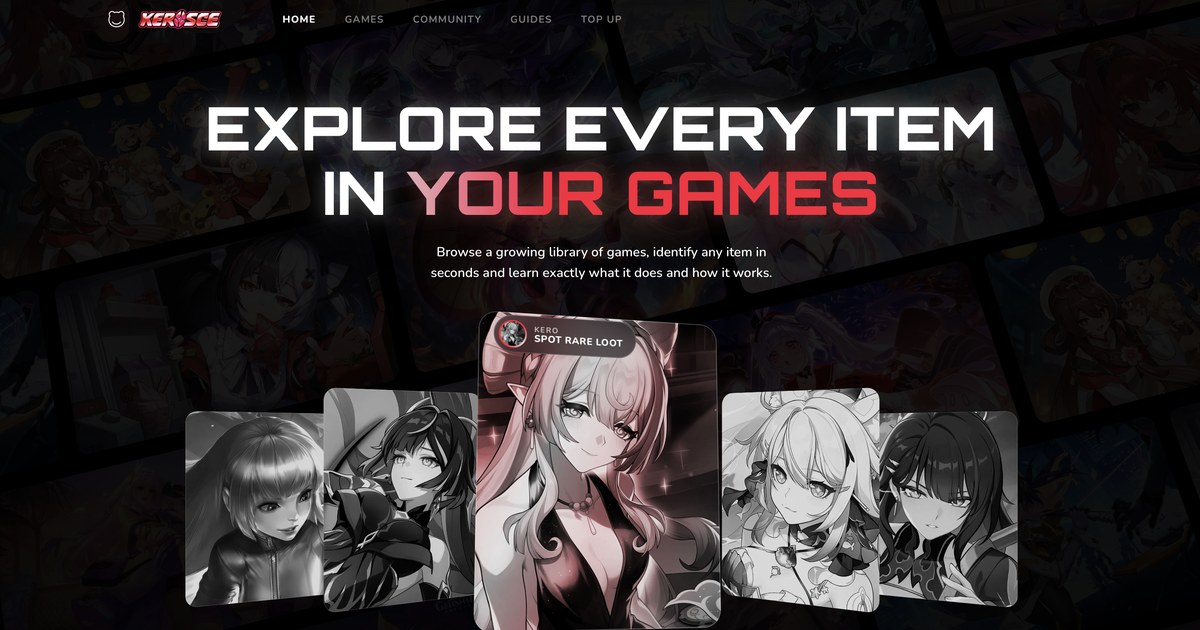
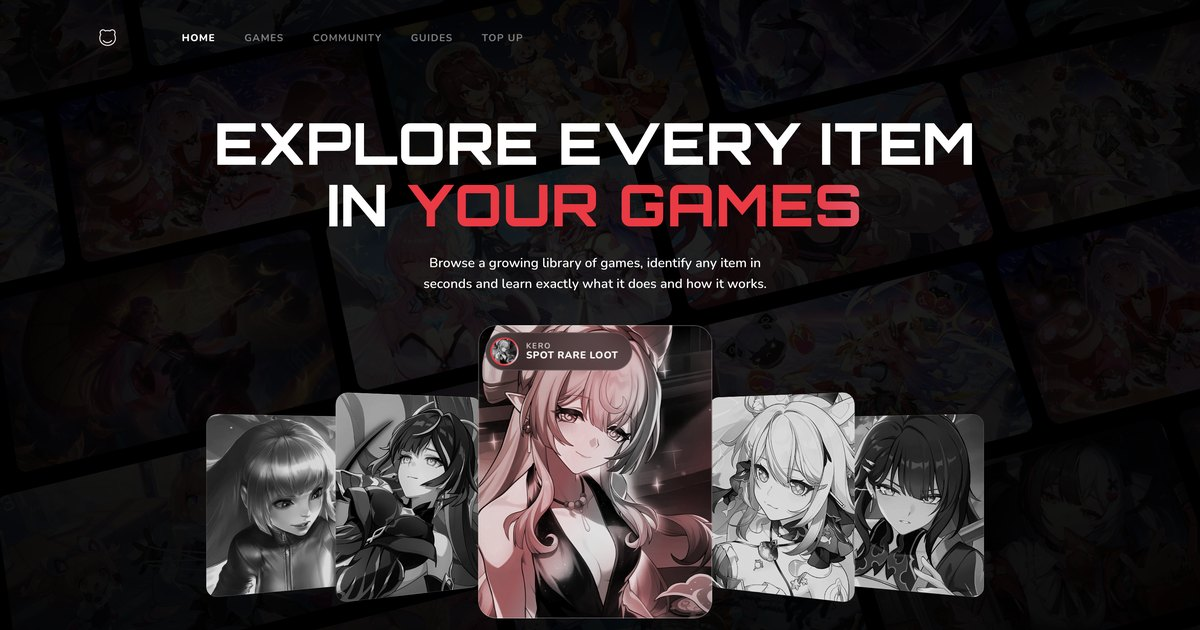
Link preview uses the new homepage screenshot

diff --git a/nuxt.config.ts b/nuxt.config.ts
@@ -47,14 +47,14 @@ export default defineNuxtConfig({
         },
         // LinkedIn and other link previews need an absolute image URL; bump ?v= when the image
         // changes so their caches fetch the new one.
-        { property: 'og:image', content: 'https://kerospace.vercel.app/og-image.jpg?v=20261027' },
-        { property: 'og:image:secure_url', content: 'https://kerospace.vercel.app/og-image.jpg?v=20261027' },
+        { property: 'og:image', content: 'https://kerospace.vercel.app/og-image.jpg?v=20261105' },
+        { property: 'og:image:secure_url', content: 'https://kerospace.vercel.app/og-image.jpg?v=20261105' },
         { property: 'og:image:type', content: 'image/jpeg' },
         { property: 'og:image:width', content: '1200' },
         { property: 'og:image:height', content: '630' },
         { property: 'og:image:alt', content: 'KeroSpace — Explore every item in your games' },
         { name: 'twitter:card', content: 'summary_large_image' },
-        { name: 'twitter:image', content: 'https://kerospace.vercel.app/og-image.jpg?v=20261027' },
+        { name: 'twitter:image', content: 'https://kerospace.vercel.app/og-image.jpg?v=20261105' },
       ],
       link: [
         { rel: 'icon', href: '/favicon-64.webp' },
